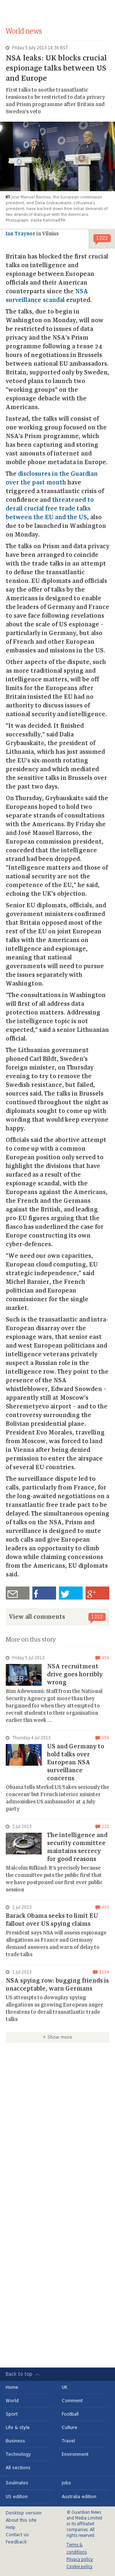
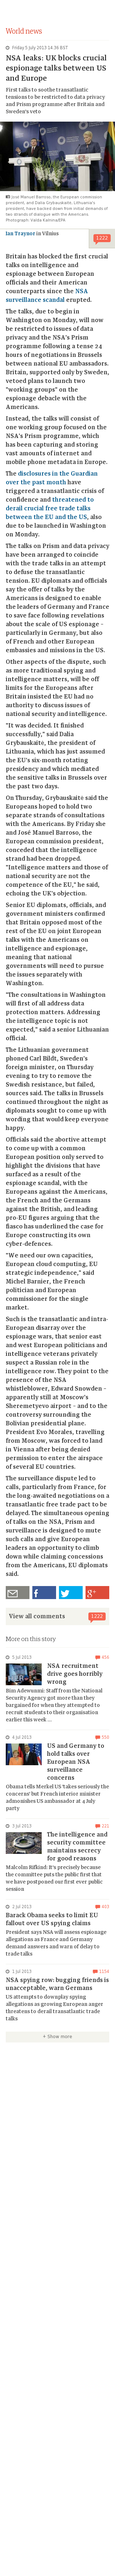
try hiding footer to resolve height issues and updated baseline images

Changed region(s): [[0.0312, 0.0311, 0.9375, 0.8099], [0.0, 0.9033, 1.0, 1.0]]

diff --git a/integration-tests/phantomcss/demo/guardian.js b/integration-tests/phantomcss/demo/guardian.js
@@ -19,7 +19,7 @@ var url = initPageOnServer('demo/testpage.html');
 
 function resize_and_take_screenshot(width){
 		casper.viewport(width,800)
-		css.screenshot('body', 250,'', 'screenshot_'+width+'.png');
+		css.screenshot('body', 1000,'', 'screenshot_'+width+'.png');
 
 }
 
@@ -36,6 +36,7 @@ casper.
 		casper.waitForSelector('.ad-slot', function() {
 			casper.evaluate(function(){
 				document.querySelector('.js-popular').style.visibility = 'hidden';
+				document.querySelector('footer').style.visibility = 'hidden';
 				var ads = document.querySelectorAll('.ad-slot');
 				Array.prototype.forEach.call(ads, function(el) {
 				 	el.style.visibility = "hidden";
